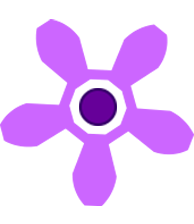
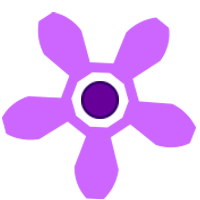
updated gears

diff --git a/index.html b/index.html
@@ -67,15 +67,15 @@
 		
 		<div class="gear-container">
 		
-			<img id="gear" src="assets/img/redpink-gears_01.png" title="ARP">
+			<img id="gear" src="assets/img/final/gear1.png" title="ARP">
 
-			<img id="gear2" src="assets/img/redpink-gears_03.png" title="Hats">
+			<img id="gear2" src="assets/img/final/gear2.png" title="Hats">
 
-			<img id="gear3" src="assets/img/redpink-gears_05.png" title="Bass">
+			<img id="gear3" src="assets/img/final/gear3.png" title="Bass">
 
-			<img id="gear4" src="assets/img/redpink-gears_08.png" title="Percussion">
+			<img id="gear4" src="assets/img/final/gear4.png" title="Percussion">
 
-			<img id="gear5" src="assets/img/redpink-gears_11.png" title="Snare">
+			<img id="gear5" src="assets/img/final/gear5.png" title="Snare">
 			
 		</div> <!-- end of .gear-container -->
 
